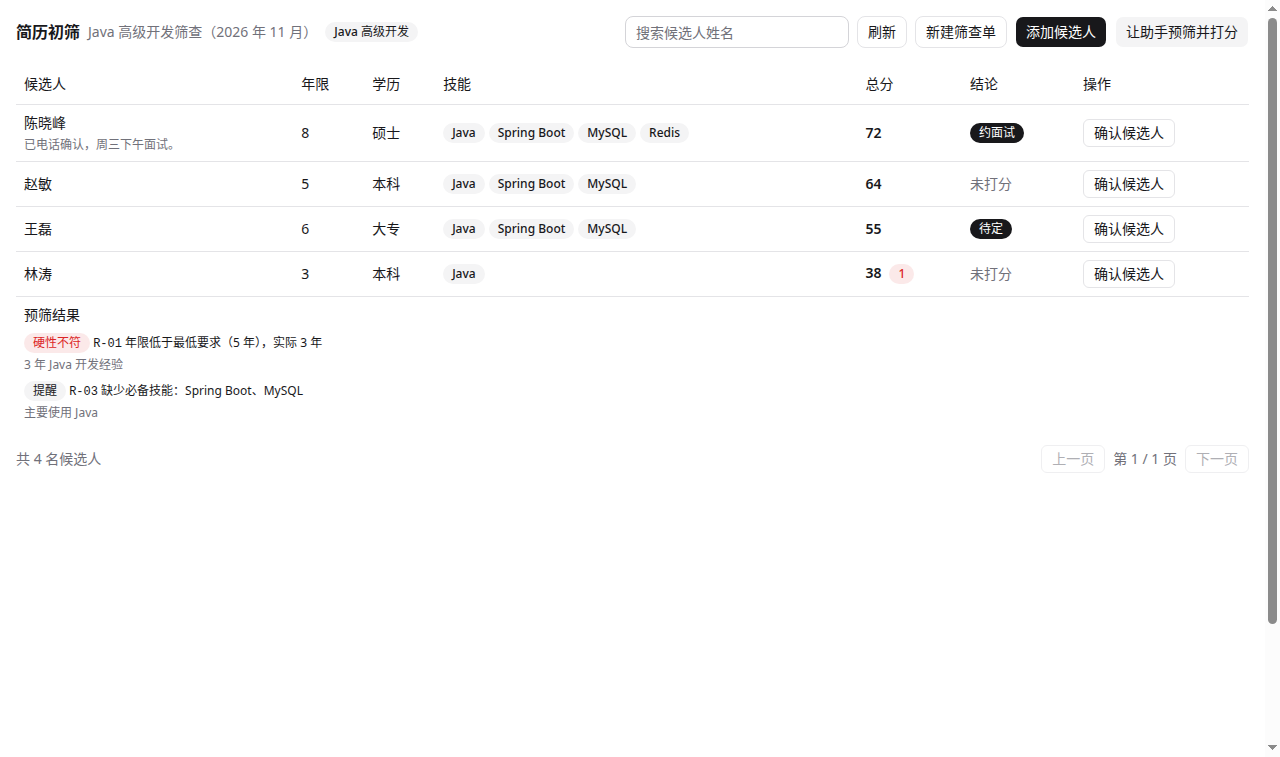
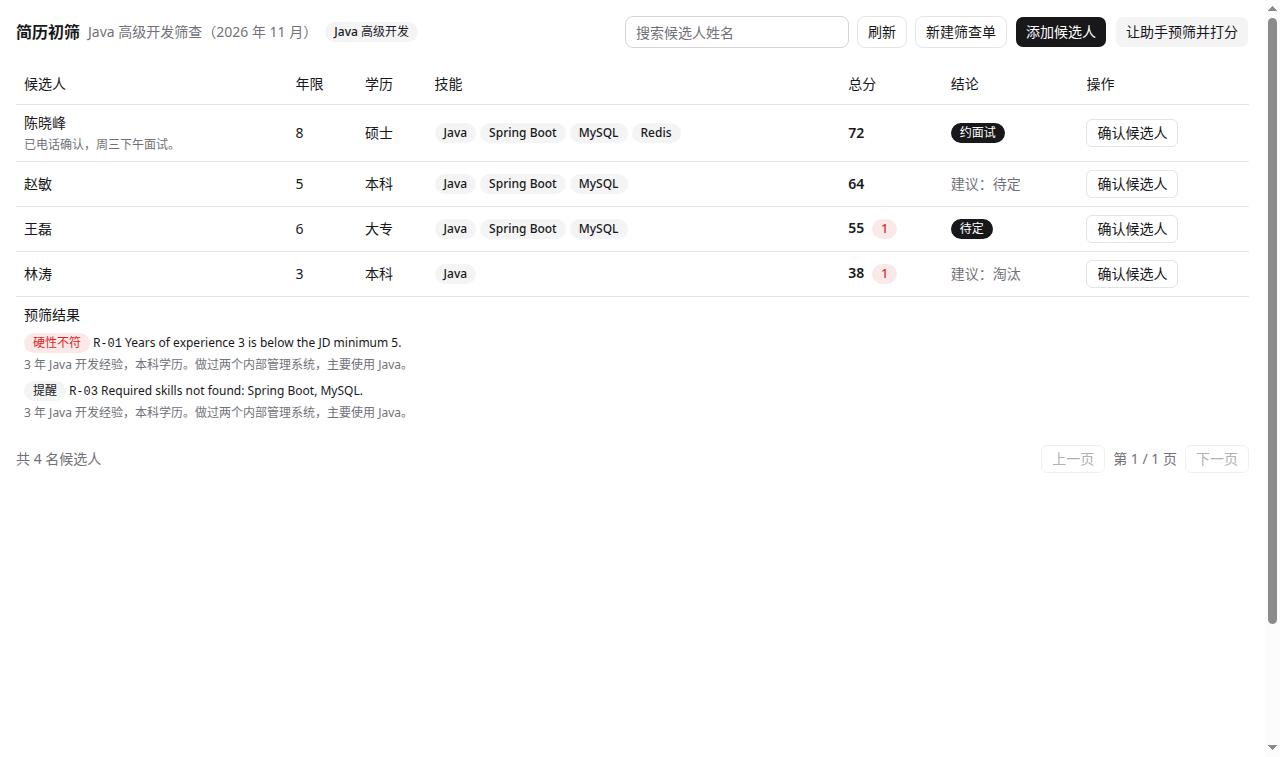
docs(resume-screening): refresh screenshots for rubric/suggestion UI
- workbench-table.png / workbench-prescreen.png re-rendered from the
  committed preview.config.mjs: suggested-decision column and merged
  R-03 now visible (verified by parent agent: build green, 16/16 tests)
- README: mark screening improvements verified, screenshots refreshed

diff --git a/community/apps/resume-screening/README.md b/community/apps/resume-screening/README.md
@@ -107,14 +107,13 @@
 - 平台仓库 `xpert-ai/xpert` main：`ba8736c897474f7db9a261aa5f64d95860bb9f60`
 - Skills 仓库 `xpert-ai/xpert-skills` main：`4ad12dcc9292d9b05021d4f5b93f24865c99e811`
 
-## 界面截图（本地预览渲染，2026-11-10）
+## 界面截图（本地预览渲染，2026-11-10 更新：含建议结论列与合并后的 R-03）
 
 用仓库自带的 `tools/remote-view-preview` 渲染真实远程组件（`dist` 产物 + shadcn 共享组件），
 数据为虚构候选人（mock host），**不是 Xpert 真平台截图**；真平台截图待平台环境就绪后补。
 本地预览配置已随代码提交：`src/lib/remote-components/resume_screening__remote/preview.config.mjs`
 （`node tools/remote-view-preview/cli.mjs --config <该文件>`）。
 
-> 注意：下面 4 张截图是打分刻度、建议结论列、R-03 合并之前的版本，已过时，**待重截**，不要当作当前界面。
 
 ![Workbench 候选人列表](docs/screenshots/workbench-table.png)
 ![展开预筛结果（R-01 / R-03）](docs/screenshots/workbench-prescreen.png)
@@ -127,7 +126,7 @@
 - [x] `pnpm --filter @xpert-ai/plugin-resume-screening test`：**16/16 通过**（预筛边界 10、保存/恢复 3、重试不重复 3；2026-11-10 晚筛查完善后由 13 增至 16）
 - [x] `pnpm --filter @xpert-ai/plugin-resume-screening lint`：通过（spec typecheck + remote:typecheck）
 
-### 筛查完善（2026-11-10 晚，未 push，待父代理核验）
+### 筛查完善（2026-11-10 晚，已验证并推送）
 
 - 新增打分刻度 `SCORE_RUBRIC`（每维 16–20 / 11–15 / 6–10 / 0–5 四档锚点），已写进
   `resume_score` 工具描述、维度 score 的 zod 描述与助手模板第 3 步；README 有中文对照表。
@@ -138,7 +137,7 @@
   R-03 合并成一条，列出全部缺失技能。
 - 新增本地预览配置 `preview.config.mjs`（4 名虚构候选人）；冒烟验证：preview-host 启动成功，
   `requestData` 按总分倒序返回、`confirm_candidate` 按 `baseRevision` 校验并更新、state 随之变化。
-  渲染截图未重截（见上节“待重截”）。
+  渲染截图已重截：主表与预筛展开两张已更新为含建议结论列、合并后 R-03 的新界面（父代理独立复验）。
 - [x] `plugin-dev-harness` 生命周期测试：通过（register → onStart → onPluginBootstrap → onPluginDestroy → onStop）；harness 用 mock，不能据此宣称真实数据库或业务流程已通过
 - [ ] `node scripts/check-plugin-metadata.mjs --package`：本机跑不起来（`Cannot find module 'typescript'`，`xpertai/node_modules` 未安装）；已手动核验替代：`dist/index.js` 的 meta 与 package.json 一致
 - [ ] 本地 Xpert 真平台验证：完整流程 + 保存恢复 + 失败重试截图（待平台环境就绪；本机无 Docker）
